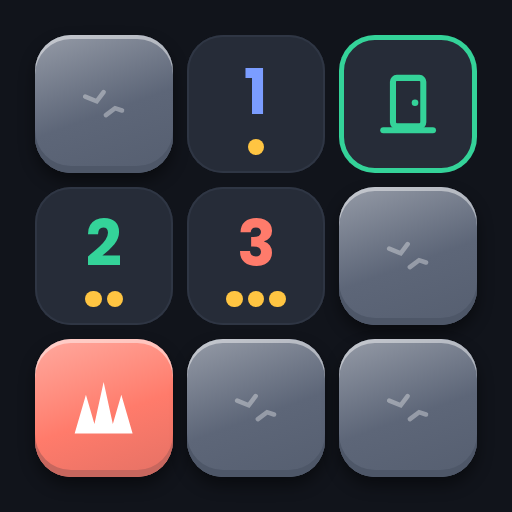
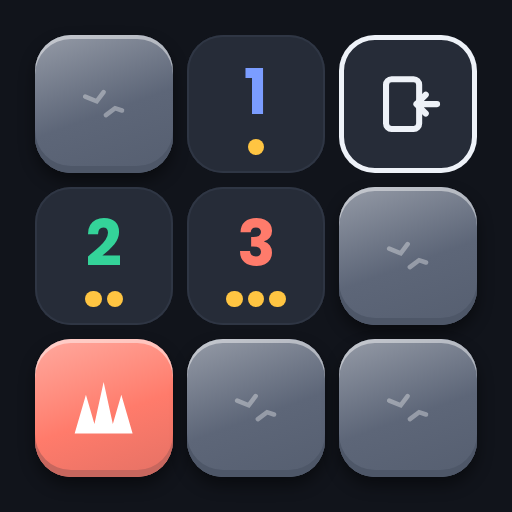
The Dig: арт на главном экране, квадратная дверь входа/выхода
Главный экран — полноэкранный арт автора (UI Design/prototypes/excavation/
assets/home-screen.png, обрезка без нарисованных кнопки и иконок настроек/
звука — home-art.webp) вместо процедурной мини-комнаты; под ним настоящая
кнопка «Играть», паттерн как у apps/sprout.

Вход и выход — одна квадратная дверь с зеркальной стрелкой (входит справа /
выходит слева) вместо разных силуэтов; цвет сменён с --ui-green на
--ui-text, потому что --ui-green совпадает с --ui-clue-2 и путался с
числом «2» на соседней плите. tools/brand.html (иконка, og) и скетчи в
UI Design/prototypes/excavation/ синхронизированы.

npm run check зелёный: 30 юнит-тестов, 8 e2e, без прокрутки на
360×560…430×932 включая главный экран.

Claude-Session: https://claude.ai/code/session_01KWr27tZBqT1rqwvqWW7Bph

diff --git a/apps/excavation/src/styles.css b/apps/excavation/src/styles.css
@@ -98,26 +98,24 @@ svg { display: block; }
 .c-green { --c: var(--ui-success); }
 .c-stone { --c: var(--ui-stone); }
 
-/* ---------- главный: название, мини-комната и живая кнопка ---------- */
-.home { align-items: center; justify-content: center; gap: var(--ui-space-6); overflow: hidden; }
-.home-title { text-align: center; }
-.home-title h1 { font-size: 48px; font-weight: 700; letter-spacing: .02em; color: var(--ui-yellow); text-shadow: 0 4px 24px rgba(255,197,66,.25); }
-.home-title p { margin-top: var(--ui-space-2); font-size: 14px; line-height: 1.45; color: var(--ui-text-muted); }
-.home-room { --cell: min(64px, 17vw, 11dvh); display: grid; grid-template-columns: repeat(4, var(--cell)); grid-template-rows: repeat(4, var(--cell)); gap: 6px; padding: 10px; border-radius: var(--ui-radius-card); background: var(--ui-surface); box-shadow: var(--ui-shadow-card); animation: art-in 480ms cubic-bezier(.2,.8,.2,1) both; }
+/* ---------- главный: арт автора во весь экран и живая кнопка ---------- */
+.home { align-items: center; justify-content: center; overflow: hidden; background: var(--ui-background); padding: env(safe-area-inset-top) 0 0; }
+.home > * { position: relative; z-index: 1; }
+.home .home-bg { position: absolute; inset: -60px; z-index: 0; background: linear-gradient(var(--ui-background) 8%, transparent 40%), var(--art) center 80% / cover no-repeat; filter: blur(36px) saturate(1.1); opacity: .35; transform: scale(1.2); }
+.home-art { width: 100%; max-width: 480px; height: auto; max-height: calc(100dvh - 130px - env(safe-area-inset-top) - env(safe-area-inset-bottom)); min-height: 0; flex: 0 1 auto; object-fit: contain; object-position: bottom;
+  /* Низ и края растворяются в размытой копии: на любом экране нет видимой рамки. */
+  -webkit-mask-image: linear-gradient(transparent, #000 9%, #000 80%, transparent), linear-gradient(90deg, transparent, #000 10%, #000 90%, transparent);
+  -webkit-mask-composite: source-in;
+  mask-image: linear-gradient(transparent, #000 9%, #000 80%, transparent), linear-gradient(90deg, transparent, #000 10%, #000 90%, transparent);
+  mask-composite: intersect;
+  animation: art-in 480ms cubic-bezier(.2,.8,.2,1) both; }
 @keyframes art-in { from { opacity: 0; transform: translateY(-10px); } }
-.h-cell { position: relative; border-radius: 26%; background: var(--ui-surface-muted); box-shadow: inset 0 0 0 1px var(--ui-border); display: grid; place-items: center; }
-.h-cell b { font-size: calc(var(--cell) * .42); font-weight: 700; margin-top: -18%; }
-.h-cell > svg { width: 50%; height: 50%; color: var(--ui-green); }
-.h-cell.exit { box-shadow: inset 0 0 0 2px var(--ui-green); }
-.h-cell.exit > svg { width: 42%; height: 42%; }
-.h-cell .corner { position: absolute; top: 3px; left: 7px; font-size: calc(var(--cell) * .25); margin: 0; }
-.h-cell .pips { bottom: calc(var(--cell) * .13); }
 
 /* Кнопка «Играть»: пилюля, крупный текст. Дышит, светится и раз в
    3 с по ней пробегает блик — зовёт нажать, не мельтеша. */
 .play-btn {
   position: relative; overflow: hidden; flex: none;
-  width: calc(100% - 2 * var(--ui-space-5)); max-width: 360px; height: 72px;
+  width: calc(100% - 2 * var(--ui-space-5)); max-width: 360px; height: 72px; margin: var(--ui-space-2) 0 calc(var(--ui-space-4) + env(safe-area-inset-bottom));
   border-radius: 999px; color: var(--ui-background); font-size: 26px; font-weight: 700; letter-spacing: .01em;
   background: linear-gradient(180deg, color-mix(in srgb, var(--ui-yellow) 72%, #fff) 0%, var(--ui-yellow) 55%, color-mix(in srgb, var(--ui-yellow) 80%, #1f2937) 100%);
   box-shadow: inset 0 2px 0 rgba(255,255,255,.45), inset 0 -4px 0 color-mix(in srgb, var(--ui-yellow) 65%, #1f2937), 0 12px 28px rgba(255,197,66,.25);
@@ -225,9 +223,9 @@ svg { display: block; }
 .cell { position: relative; width: var(--cell); height: var(--cell); border-radius: 26%; background: var(--ui-surface-muted); box-shadow: inset 0 0 0 1px var(--ui-border); display: grid; place-items: center; }
 .cell.closed { background: none; box-shadow: none; cursor: pointer; }
 .cell .num { font-size: calc(var(--cell) * .44); font-weight: 700; line-height: 1; margin-top: -16%; }
-.cell.entrance svg { width: 50%; height: 50%; color: var(--ui-green); }
-.cell.exit > svg, .cell.ghost-exit > svg { width: 40%; height: 40%; color: var(--ui-green); }
-.cell.exit { box-shadow: inset 0 0 0 2px var(--ui-green); }
+.cell.entrance svg { width: 50%; height: 50%; color: var(--ui-text); }
+.cell.exit > svg, .cell.ghost-exit > svg { width: 40%; height: 40%; color: var(--ui-text); }
+.cell.exit { box-shadow: inset 0 0 0 2px var(--ui-text); }
 .cell.exit .corner { position: absolute; top: 3px; left: 6px; font-size: calc(var(--cell) * .25); font-weight: 700; line-height: 1.1; }
 .cell.ghost .num, .cell.ghost .pips, .cell.ghost-exit > svg { opacity: .38; }
 .cell.ghost-trap svg { width: 50%; height: 50%; color: var(--ui-coral); opacity: .8; }

diff --git a/apps/excavation/src/ui/screens.ts b/apps/excavation/src/ui/screens.ts
@@ -1,39 +1,23 @@
 import { LEVELS } from '../levels/levels.ts';
-import { glyph, icon, pips } from './icons.ts';
+import art from '@ui/prototypes/excavation/assets/home-art.webp';
+import { glyph, icon } from './icons.ts';
 import { currentLevel, isUnlocked, loadProgress } from './storage.ts';
 
 export type Go = (route: string) => void;
 
-// Главный: арта автора для The Dig пока нет — название, мини-комната из
-// плит игры и живая кнопка «Играть» (apps/CLAUDE.md §2). Арт заменит
-// мини-комнату, когда появится.
+// Главный: арт автора (§7.1, `UI Design/prototypes/excavation/assets/`) во
+// весь экран, живая кнопка «Играть» под ним (apps/CLAUDE.md §2). Нарисованную
+// в арте кнопку обрезали при подготовке home-art.webp; оригинал со всей
+// сценой — home-screen.png.
 export function homeScreen(go: Go): HTMLElement {
   const el = document.createElement('main');
   el.className = 'screen home';
   el.dataset['testid'] = 'home';
-  // Честная мини-комната: числа выведены из раскладки, выход найден.
-  const map = ['**..', '...X', '..*.', 'E...'];
-  const opened = new Set([4, 5, 7, 8, 9, 13, 14]);
-  const trapAt = (r: number, c: number): boolean => map[r]?.[c] === '*';
-  const room = map
-    .flatMap((line, r) =>
-      [...line].map((ch, c) => {
-        let n = 0;
-        for (let dr = -1; dr <= 1; dr += 1) for (let dc = -1; dc <= 1; dc += 1) if ((dr || dc) && trapAt(r + dr, c + dc)) n += 1;
-        const i = r * 4 + c;
-        if (ch === 'E') return `<div class="h-cell">${glyph.arch}</div>`;
-        if (ch === 'X') return `<div class="h-cell exit"><b class="corner" style="color:var(--ui-clue-${String(n)})">${String(n)}</b>${glyph.exit}${pips(n)}</div>`;
-        if (!opened.has(i)) return `<div class="h-cell"><div class="stone">${glyph.cracks}</div></div>`;
-        return `<div class="h-cell">${n > 0 ? `<b style="color:var(--ui-clue-${String(n)})">${String(n)}</b>${pips(n)}` : ''}</div>`;
-      }),
-    )
-    .join('');
+  el.style.setProperty('--art', `url("${art}")`);
   el.innerHTML = `
-    <div class="home-title">
-      <h1>The Dig</h1>
-      <p>Число на плите — это и ловушки рядом, и золото.<br>Найди выход и реши, когда уйти.</p>
-    </div>
-    <div class="home-room" aria-hidden="true">${room}</div>
+    <div class="home-bg" aria-hidden="true"></div>
+    <img class="home-art" src="${art}" alt="" width="941" height="1258">
+    <h1 class="sr-only">The Dig</h1>
     <button class="play-btn" data-testid="play">Играть</button>`;
   el.querySelector('[data-testid="play"]')?.addEventListener('click', () => go('#/levels'));
   return el;

diff --git a/UI Design/prototypes/excavation/mockup.html b/UI Design/prototypes/excavation/mockup.html
@@ -70,10 +70,10 @@
   .pips { position: absolute; bottom: 7px; left: 0; right: 0; display: flex; justify-content: center; gap: 2px; }
   .pips i { width: 7px; height: 7px; border-radius: 50%; background: var(--ui-yellow); box-shadow: inset 0 -1px 0 rgba(0,0,0,.25); }
   /* Найденный выход: зелёная рамка, дверь, число в углу. */
-  .exit { box-shadow: inset 0 0 0 2px var(--ui-green); }
-  .exit svg.door { width: 40%; height: 40%; color: var(--ui-green); }
+  .exit { box-shadow: inset 0 0 0 2px var(--ui-text); }
+  .exit svg.door { width: 40%; height: 40%; color: var(--ui-text); }
   .exit b.corner { position: absolute; top: 4px; left: 7px; font-size: 14px; margin: 0; }
-  .entrance svg { width: 52%; height: 52%; color: var(--ui-green); }
+  .entrance svg { width: 50%; height: 50%; color: var(--ui-text); }
 
   .actions { display: flex; flex-direction: column; gap: 6px; align-items: stretch; }
   .hint { text-align: center; font-size: 13px; color: var(--ui-text-muted); font-weight: 500; }
@@ -88,8 +88,8 @@
     <symbol id="star" viewBox="0 0 24 24"><path d="M12 2.8l2.8 5.9 6.4.8-4.7 4.4 1.2 6.4L12 17.2l-5.7 3.1 1.2-6.4L2.8 9.5l6.4-.8z" fill="currentColor"/></symbol>
     <symbol id="spikes" viewBox="0 0 24 24"><path d="M3 20 6.5 8 10 20zM8.5 20 12 4l3.5 16zM14 20l3.5-12L21 20z" fill="currentColor"/></symbol>
     <symbol id="cracks" viewBox="0 0 24 24"><path d="M4 9l5 2 3-4M13 17l4-3 3 1" stroke="currentColor" stroke-width="2" fill="none" stroke-linecap="round"/></symbol>
-    <symbol id="exitdoor" viewBox="0 0 24 24"><rect x="6.5" y="2.5" width="11" height="17.5" rx="1.4" fill="none" stroke="currentColor" stroke-width="2.2"/><circle cx="14.5" cy="11.5" r="1.2" fill="currentColor"/><path d="M3 21.5h18" stroke="currentColor" stroke-width="2.2" stroke-linecap="round"/></symbol>
-    <symbol id="door" viewBox="0 0 24 24"><circle cx="12" cy="12" r="9" fill="none" stroke="currentColor" stroke-width="2.3"/><path d="M8 10.5 12 14.5 16 10.5" fill="none" stroke="currentColor" stroke-width="2.4" stroke-linecap="round" stroke-linejoin="round"/></symbol>
+    <symbol id="exitdoor" viewBox="0 0 24 24"><rect x="4" y="3" width="12" height="18" rx="2" fill="none" stroke="currentColor" stroke-width="2.2"/><path d="M22.5 12H15m0 0 3.4-3.4M15 12l3.4 3.4" fill="none" stroke="currentColor" stroke-width="2.2" stroke-linecap="round" stroke-linejoin="round"/></symbol>
+    <symbol id="door" viewBox="0 0 24 24"><rect x="8" y="3" width="12" height="18" rx="2" fill="none" stroke="currentColor" stroke-width="2.2"/><path d="M1.5 12H9m0 0-3.4-3.4M9 12l-3.4 3.4" fill="none" stroke="currentColor" stroke-width="2.2" stroke-linecap="round" stroke-linejoin="round"/></symbol>
   </defs>
 </svg>
 <div class="app">

diff --git a/apps/excavation/src/ui/icons.ts b/apps/excavation/src/ui/icons.ts
@@ -19,11 +19,11 @@ export const glyph = {
   star: '<svg viewBox="0 0 24 24" aria-hidden="true"><path d="M12 2.8l2.8 5.9 6.4.8-4.7 4.4 1.2 6.4L12 17.2l-5.7 3.1 1.2-6.4L2.8 9.5l6.4-.8z" fill="currentColor"/></svg>',
   spikes: '<svg viewBox="0 0 24 24" aria-hidden="true"><path d="M3 20 6.5 8 10 20zM8.5 20 12 4l3.5 16zM14 20l3.5-12L21 20z" fill="currentColor"/></svg>',
   cracks: '<svg viewBox="0 0 24 24" aria-hidden="true"><path d="M4 9l5 2 3-4M13 17l4-3 3 1" stroke="currentColor" stroke-width="2" fill="none" stroke-linecap="round"/></svg>',
-  // Вход — круглый лаз, которым спустились в гробницу: кольцо и стрелка вниз.
-  arch: '<svg viewBox="0 0 24 24" aria-hidden="true"><circle cx="12" cy="12" r="9" fill="none" stroke="currentColor" stroke-width="2.3"/><path d="M8 10.5 12 14.5 16 10.5" fill="none" stroke="currentColor" stroke-width="2.4" stroke-linecap="round" stroke-linejoin="round"/></svg>',
-  // Выход — прямоугольная дверь на полу: рамка, ручка и линия пола под ней —
-  // силуэт нарочно не похож на круглый лаз входа.
-  exit: '<svg viewBox="0 0 24 24" aria-hidden="true"><rect x="6.5" y="2.5" width="11" height="17.5" rx="1.4" fill="none" stroke="currentColor" stroke-width="2.2"/><circle cx="14.5" cy="11.5" r="1.2" fill="currentColor"/><path d="M3 21.5h18" stroke="currentColor" stroke-width="2.2" stroke-linecap="round"/></svg>',
+  // Вход — квадратная дверь со стрелкой, входящей в неё справа.
+  arch: '<svg viewBox="0 0 24 24" aria-hidden="true"><rect x="8" y="3" width="12" height="18" rx="2" fill="none" stroke="currentColor" stroke-width="2.2"/><path d="M1.5 12H9m0 0-3.4-3.4M9 12l-3.4 3.4" fill="none" stroke="currentColor" stroke-width="2.2" stroke-linecap="round" stroke-linejoin="round"/></svg>',
+  // Выход — та же квадратная дверь, зеркально: стрелка выходит из неё влево.
+  // Общая форма роднит пару, направление стрелки различает их без чтения текста.
+  exit: '<svg viewBox="0 0 24 24" aria-hidden="true"><rect x="4" y="3" width="12" height="18" rx="2" fill="none" stroke="currentColor" stroke-width="2.2"/><path d="M22.5 12H15m0 0 3.4-3.4M15 12l3.4 3.4" fill="none" stroke="currentColor" stroke-width="2.2" stroke-linecap="round" stroke-linejoin="round"/></svg>',
 };
 
 /** Ряд монеток под цифрой: столько же штук, сколько число (§7). */

diff --git a/UI Design/prototypes/excavation/tiles.html b/UI Design/prototypes/excavation/tiles.html
@@ -24,13 +24,13 @@
   .cell b { font-size: 26px; font-weight: 700; }
   .ghost b { opacity: .38; }
   .ghost-trap svg { width: 50%; height: 50%; color: var(--ui-coral); opacity: .75; }
-  .entrance svg { width: 52%; height: 52%; color: var(--ui-green); }
+  .entrance svg { width: 50%; height: 50%; color: var(--ui-text); }
   .cell b { margin-top: -8px; }
   .pips { position: absolute; bottom: 7px; left: 0; right: 0; display: flex; justify-content: center; gap: 2px; }
   .pips i { width: 7px; height: 7px; border-radius: 50%; background: var(--ui-yellow); box-shadow: inset 0 -1px 0 rgba(0,0,0,.25); }
   .ghost .pips { opacity: .38; }
-  .exit { box-shadow: inset 0 0 0 2px var(--ui-green); }
-  .exit svg { width: 40%; height: 40%; color: var(--ui-green); }
+  .exit { box-shadow: inset 0 0 0 2px var(--ui-text); }
+  .exit svg { width: 40%; height: 40%; color: var(--ui-text); }
   .exit b.corner { position: absolute; top: 4px; left: 7px; font-size: 14px; margin: 0; }
 </style>
 </head>
@@ -38,8 +38,8 @@
 <svg width="0" height="0" style="position:absolute"><defs>
   <symbol id="spikes" viewBox="0 0 24 24"><path d="M3 20 6.5 8 10 20zM8.5 20 12 4l3.5 16zM14 20l3.5-12L21 20z" fill="currentColor"/></symbol>
   <symbol id="cracks" viewBox="0 0 24 24"><path d="M4 9l5 2 3-4M13 17l4-3 3 1" stroke="currentColor" stroke-width="2" fill="none" stroke-linecap="round"/></symbol>
-  <symbol id="exitdoor" viewBox="0 0 24 24"><rect x="6.5" y="2.5" width="11" height="17.5" rx="1.4" fill="none" stroke="currentColor" stroke-width="2.2"/><circle cx="14.5" cy="11.5" r="1.2" fill="currentColor"/><path d="M3 21.5h18" stroke="currentColor" stroke-width="2.2" stroke-linecap="round"/></symbol>
-  <symbol id="door" viewBox="0 0 24 24"><circle cx="12" cy="12" r="9" fill="none" stroke="currentColor" stroke-width="2.3"/><path d="M8 10.5 12 14.5 16 10.5" fill="none" stroke="currentColor" stroke-width="2.4" stroke-linecap="round" stroke-linejoin="round"/></symbol>
+  <symbol id="exitdoor" viewBox="0 0 24 24"><rect x="4" y="3" width="12" height="18" rx="2" fill="none" stroke="currentColor" stroke-width="2.2"/><path d="M22.5 12H15m0 0 3.4-3.4M15 12l3.4 3.4" fill="none" stroke="currentColor" stroke-width="2.2" stroke-linecap="round" stroke-linejoin="round"/></symbol>
+  <symbol id="door" viewBox="0 0 24 24"><rect x="8" y="3" width="12" height="18" rx="2" fill="none" stroke="currentColor" stroke-width="2.2"/><path d="M1.5 12H9m0 0-3.4-3.4M9 12l-3.4 3.4" fill="none" stroke="currentColor" stroke-width="2.2" stroke-linecap="round" stroke-linejoin="round"/></symbol>
 </defs></svg>
 <h2>Во время попытки</h2>
 <div class="row">

diff --git a/apps/excavation/tools/brand.html b/apps/excavation/tools/brand.html
@@ -19,8 +19,8 @@
   .c b { font-size: calc(var(--cell) * .46); font-weight: 700; line-height: 1; margin-top: -18%; }
   .p { position: absolute; bottom: 13%; left: 0; right: 0; display: flex; justify-content: center; gap: 5px; }
   .p i { width: calc(var(--cell) * .12); height: calc(var(--cell) * .12); border-radius: 50%; background: var(--ui-yellow); }
-  .c.exit { box-shadow: inset 0 0 0 5px var(--ui-green); }
-  .c.exit svg { width: 48%; height: 48%; color: var(--ui-green); }
+  .c.exit { box-shadow: inset 0 0 0 5px var(--ui-text); }
+  .c.exit svg { width: 48%; height: 48%; color: var(--ui-text); }
   #icon { width: 512px; height: 512px; border-radius: 0; background: var(--ui-background); display: grid; place-items: center; }
   #og { width: 1200px; height: 630px; background: var(--ui-background); display: flex; align-items: center; justify-content: center; gap: 70px; padding: 0 70px; }
   #og h1 { font-size: 110px; color: var(--ui-yellow); font-weight: 700; line-height: 1; }
@@ -31,7 +31,7 @@
 <svg width="0" height="0" style="position:absolute"><defs>
   <symbol id="cr" viewBox="0 0 24 24"><path d="M4 9l5 2 3-4M13 17l4-3 3 1" stroke="currentColor" stroke-width="2" fill="none" stroke-linecap="round"/></symbol>
   <symbol id="sp" viewBox="0 0 24 24"><path d="M3 20 6.5 8 10 20zM8.5 20 12 4l3.5 16zM14 20l3.5-12L21 20z" fill="currentColor"/></symbol>
-  <symbol id="ex" viewBox="0 0 24 24"><rect x="6.5" y="2.5" width="11" height="17.5" rx="1.4" fill="none" stroke="currentColor" stroke-width="2.2"/><circle cx="14.5" cy="11.5" r="1.2" fill="currentColor"/><path d="M3 21.5h18" stroke="currentColor" stroke-width="2.2" stroke-linecap="round"/></symbol>
+  <symbol id="ex" viewBox="0 0 24 24"><rect x="4" y="3" width="12" height="18" rx="2" fill="none" stroke="currentColor" stroke-width="2.2"/><path d="M22.5 12H15m0 0 3.4-3.4M15 12l3.4 3.4" fill="none" stroke="currentColor" stroke-width="2.2" stroke-linecap="round" stroke-linejoin="round"/></symbol>
 </defs></svg>
 <div id="icon"><div class="grid">
   <div class="c"><div class="s"><svg><use href="#cr"/></svg></div></div>

diff --git a/apps/excavation/src/ui/game.ts b/apps/excavation/src/ui/game.ts
@@ -361,7 +361,7 @@ export function gameScreen(levelNumber: number, go: Go): Screen {
     flip(res.index);
     vibrate(8);
     if (res.kind === 'exit') {
-      cellEl(res.index).animate([{ boxShadow: '0 0 0 0 rgba(52,211,153,.8), inset 0 0 0 2px var(--ui-green)' }, { boxShadow: '0 0 0 12px rgba(52,211,153,0), inset 0 0 0 2px var(--ui-green)' }], { duration: T.exitGlow, easing: 'ease-out' });
+      cellEl(res.index).animate([{ boxShadow: '0 0 0 0 rgba(238,242,248,.8), inset 0 0 0 2px var(--ui-text)' }, { boxShadow: '0 0 0 12px rgba(238,242,248,0), inset 0 0 0 2px var(--ui-text)' }], { duration: T.exitGlow, easing: 'ease-out' });
       vibrate([10, 40, 10]);
     }
     flyGold(res.index, res.gained, state.gold);

diff --git a/specs/24-excavation.md b/specs/24-excavation.md
@@ -341,13 +341,16 @@ type Action =
   `--ui-yellow` (7 px, зазор 2 px; при плите меньше 44 px — 5 px): «2» и две
   монетки, «5» и пять. Одинаковое количество говорит «это одно и то же
   число». Пустая плита (0) — без цифры и монеток.
-- **Вход и выход — разные силуэты, не только цвет** (решение автора,
-  добавлено после показа): вход — кольцо со стрелкой вниз («лаз, которым
-  спустились»), выход — прямоугольная дверь на линии пола, с ручкой
-  («выход наружу»); оба `--ui-green`. Вход виден с начала на плоской ячейке.
-  Выход до находки неотличим от закрытой плиты. Найденный выход — плоская
-  ячейка с зелёной рамкой и значком двери; его цифра — в левом верхнем углу
-  (14 px) своего цвета, монетки — внизу, как у обычной плиты.
+- **Вход и выход — одна квадратная дверь, зеркальная стрелка** (решение
+  автора, переделано после показа): вход — квадратная рамка со стрелкой,
+  входящей в неё справа; выход — та же рамка зеркально, стрелка выходит из
+  неё влево. Общая форма роднит пару как «одна и та же дверь», направление
+  стрелки отличает их без чтения текста. Оба `--ui-text` (не `--ui-clue-2` /
+  `--ui-green`: этот зелёный уже занят числом 2, совпадение цвета с плитой
+  путало). Вход виден с начала на плоской ячейке. Выход до находки
+  неотличим от закрытой плиты. Найденный выход — плоская ячейка с рамкой
+  `--ui-text` и значком двери; его цифра — в левом верхнем углу (14 px)
+  своего цвета, монетки — внизу, как у обычной плиты.
 - **Удержание** (решение автора, добавлено после показа): держишь открытую
   плиту с числом 350 мс — её закрытые соседи обводятся коралловым (та же
   обводка, что у обучающей подсветки ниже), сама плита получает лёгкое
@@ -438,16 +441,18 @@ type Action =
 
 **Второй канал к цвету.** Закрытая и открытая плита различаются объёмом;
 ловушка — значком шипов; число читается как цифра и как число монеток, цвет
-лишь добавляет «температуру»; вход и выход — разными силуэтами (кольцо со
-стрелкой вниз против прямоугольной двери на линии пола), не только одним
-зелёным; звёзды — формой значка (заливка или рамка) и подписью порога;
+лишь добавляет «температуру»; вход и выход — одна дверь с зеркальной
+стрелкой, а не цвет (оба `--ui-text`, отдельно от палитры чисел); звёзды —
+формой значка (заливка или рамка) и подписью порога;
 активность «Забрать» — подписью («Забрать 23», «Найди выход», «Выход с 18»),
 не только цветом.
 
-**Главный экран без арта автора** (сборка 2026-09-27): арта для «Раскопа»
-пока нет, поэтому вместо него название, честная мини-комната 4×4 из плит игры
-(числа выведены из раскладки, выход найден) и кнопка «Играть» — жёлтая
-пилюля 72 px, как у соседних игр. Арт заменит мини-комнату, когда появится.
+**Главный экран — арт автора** (добавлен после показа,
+`UI Design/prototypes/excavation/assets/home-screen.png`): полноэкранная
+иллюстрация — название, поле с монетками и цифрами, лопата, самоцветы;
+нарисованную в арте кнопку обрезали (`home-art.webp`), под артом настоящая
+«Играть» — жёлтая пилюля 72 px, как у соседних игр. Низ и края арта
+растворяются в его размытой копии, паттерн — как у `apps/sprout`.
 На игровом экране попапы не размывают поле и прижаты к низу: раскрытая
 комната — payoff, её должно быть видно.
 

diff --git a/UI Design/prototypes/excavation/README.md b/UI Design/prototypes/excavation/README.md
@@ -1,9 +1,15 @@
-# Раскоп — экраны
+# The Dig — экраны
 
 Спека — `specs/24-excavation.md`. Тема «Гробница» (тёмная,
 `data-theme="tomb"`) — одобрена автором 2026-09-27, токены в
 `UI Design/design-tokens.css` и `themes.tomb` в `design-tokens.json`.
 
+- `assets/home-screen.png`, `assets/home-art.webp` — арт автора для главного
+  экрана (добавлен после показа): полноэкранная иллюстрация с названием,
+  полем и лопатой. `home-screen.png` — оригинал целиком (с нарисованными
+  кнопкой «Play» и иконками настроек/звука, которых у игры нет);
+  `home-art.webp` — обрезка без них (кроп по верхним ~1258 px из 1672),
+  используется в игре под настоящей «Играть». Паттерн — как у `apps/sprout`.
 - `game-screen.png` — скетч игрового экрана 390×664 для §7.1: уровень 5,
   раскладка seed 5035, открыты все гарантированно безопасные плиты, выход
   найден (левый край, второй ряд). Золото 23,
@@ -26,17 +32,21 @@
 | Открытая плита | `--ui-surface-muted` | плоская |
 | Число 1–5 | `--ui-clue-1..5`: синий, зелёный, коралловый, фиолетовый, розовый | сама цифра |
 | Золото плиты | монетки `--ui-yellow` под цифрой, столько же штук | количество |
-| Вход | `--ui-green` | круг со стрелкой вниз — «лаз, которым спустились» |
-| Найденный выход | рамка и дверь `--ui-green`, цифра в углу | прямоугольная дверь на линии пола с ручкой — силуэт нарочно не похож на вход |
+| Вход | `--ui-text` | квадратная дверь, стрелка входит в неё справа |
+| Найденный выход | рамка и дверь `--ui-text`, цифра в углу | та же квадратная дверь, стрелка выходит из неё влево (зеркало входа) |
 | Удержание плиты с числом | обводка `--ui-coral` на закрытых соседях | плашка «N ловушек среди этих плит» |
 | Ловушка | тайл `--ui-coral` (сработала) или значок на плоской (раскрыта) | значок шипов |
 | Звезда на шкале | `--ui-yellow` / `--ui-disabled` | заливка или рамка, число порога |
 
-**Вход и выход переделаны 2026-09-27** (по просьбе автора «чтобы больше
-отличались»): раньше оба были формой арки/двери с общим силуэтом, теперь вход
-— окружность со стрелкой вниз, выход — прямоугольник с ручкой и линией пола.
-Тот же файл `tools/brand.html` в `apps/excavation` использует те же два
-символа — синхронизировано.
+**Вход и выход переделаны дважды.** 2026-09-27, первая правка (по просьбе
+«чтобы больше отличались»): арка/дверь с общим силуэтом → окружность со
+стрелкой вниз (вход) и прямоугольник с ручкой (выход). Тот же день, вторая
+правка (по образцу присланного листа дверных иконок, «квадратные двери,
+цвет должен отличаться от цвета чисел»): обе стали одной квадратной дверью
+с зеркальной стрелкой, а цвет — `--ui-green` → `--ui-text`, потому что
+`--ui-green` совпадает с `--ui-clue-2` и путался с числом «2» на соседней
+плите. Тот же файл `tools/brand.html` в `apps/excavation` использует те же
+символы — синхронизировано.
 
 Черновик тёмного варианта (`mockup-dark.html`) после одобрения стал основным
 `mockup.html`; светлого варианта больше нет.
